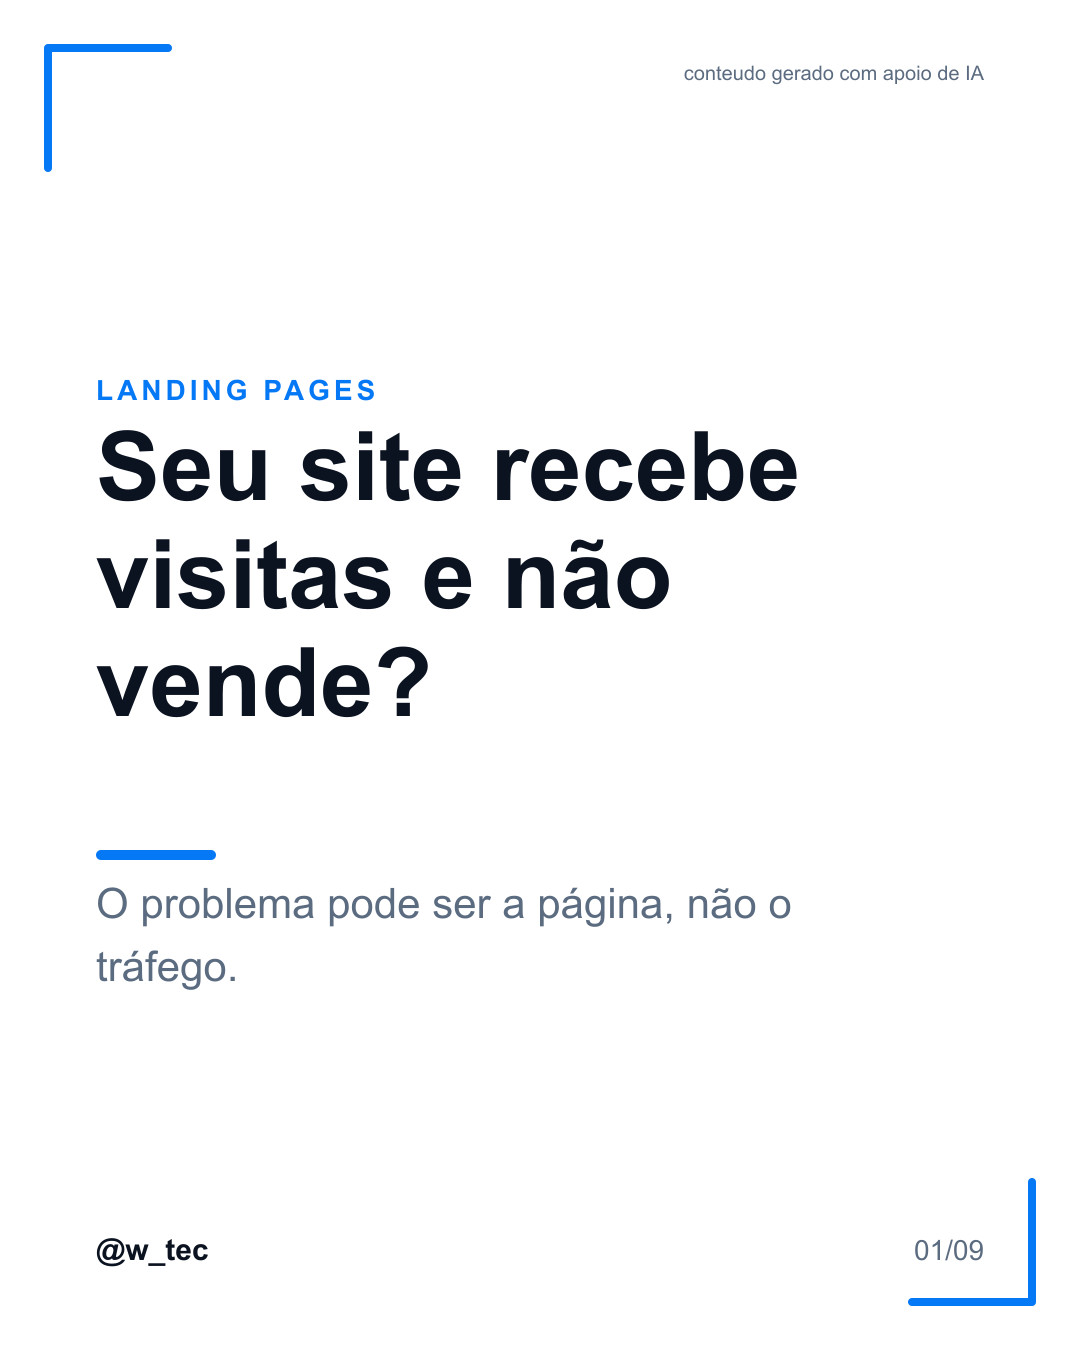
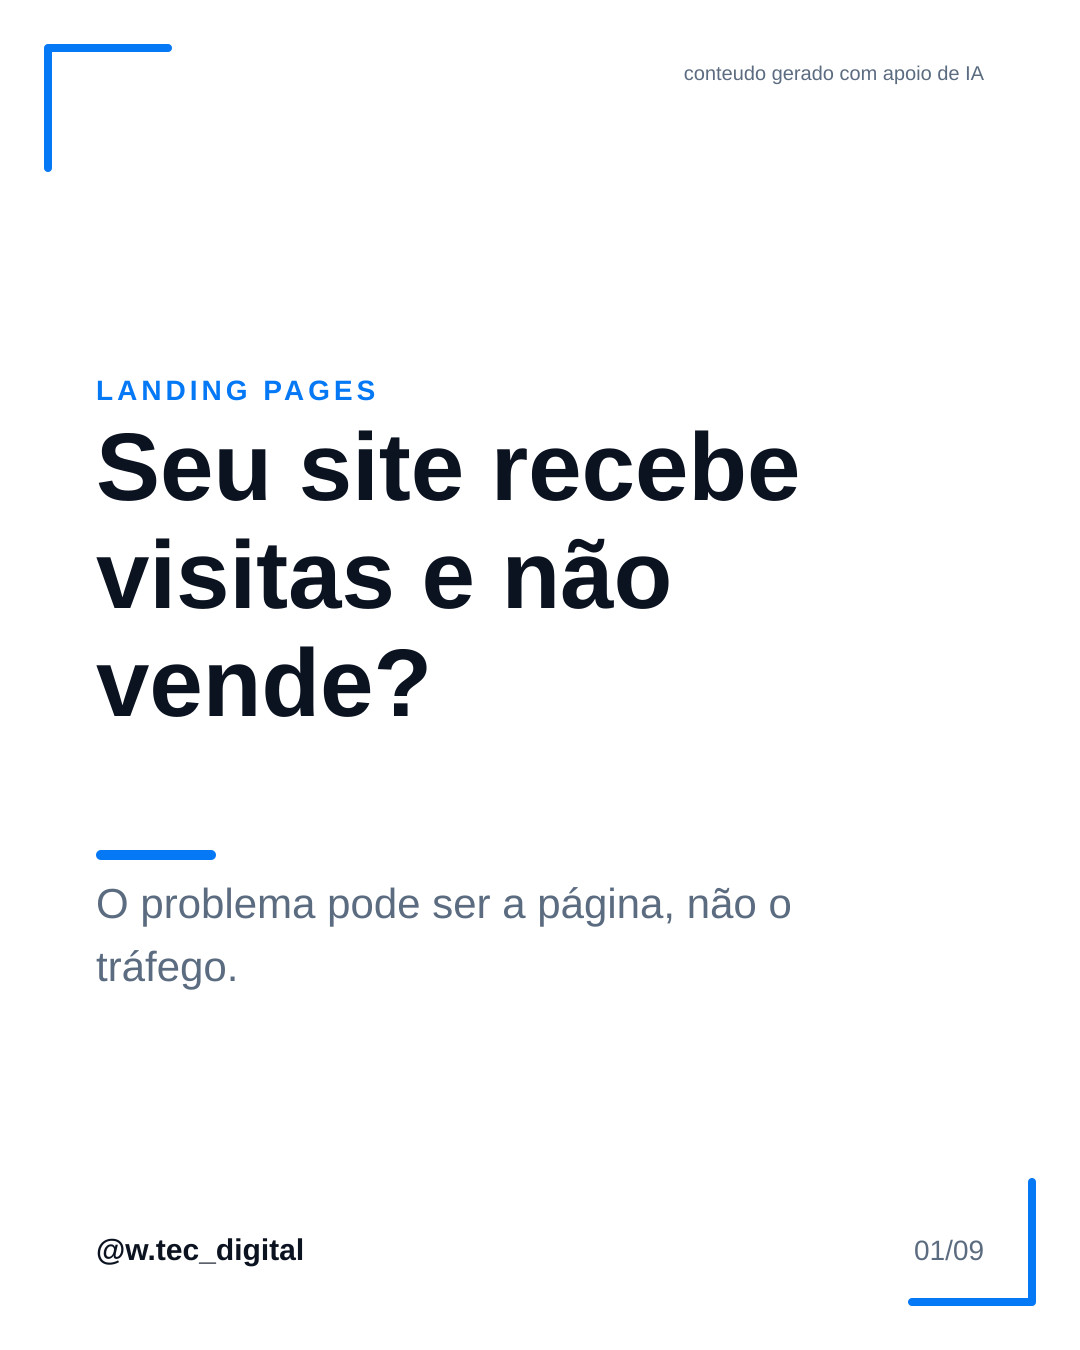
content: render landing-pages-vendem com @w.tec_digital

diff --git a/brand.md b/brand.md
@@ -5,7 +5,7 @@
 ## Identidade
 
 - Nome: W-Tec
-- Handle: @w_tec
+- Handle: @w.tec_digital
 - Link da bio: (preencher)
 - Nicho: tecnologia
 - Publico: (preencher — ex.: pequenos negocios, devs iniciantes, profissionais de TI)
@@ -33,7 +33,7 @@ fg: #0B1220
 accent: #0578F5
 muted: #5B6B80
 font: Arial
-handle: @w_tec
+handle: @w.tec_digital
 logo: logo_wtec.jpg
 
 ## Hashtags
